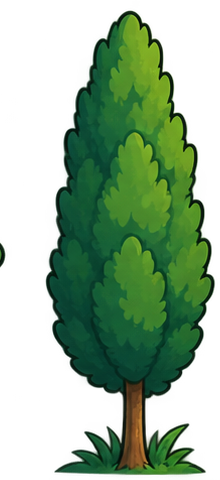
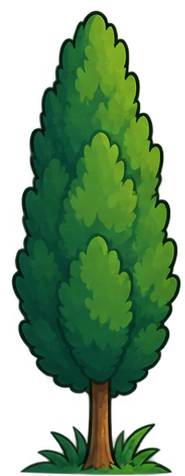
Update project features

diff --git a/src/Container.jsx b/src/Container.jsx
@@ -107,7 +107,8 @@ const Container = () => {
     () => {
       const works = document.querySelector(".works");
 
-      const scrollWorks = works.scrollWidth - works.clientWidth + works.clientWidth /10
+      const scrollWorks =
+        works.scrollWidth - works.clientWidth + works.clientWidth / 10;
 
       const split = SplitText.create(".what .para", {
         type: "chars, words",
@@ -293,8 +294,8 @@ const Container = () => {
           "<+.4",
         )
         .to(".tree-one", { x: "-100" }, "<")
-        .to(".tree-two", { x: "-300" }, "<")
-        .to(".tree-three", { x: "-400" }, "<")
+        .to(".tree-two", { x: "-100", delay: 0.075 }, "<")
+        .to(".tree-three", { x: "-100", delay: 0.15 }, "<")
         .to(".tree", {
           y: "-100",
           delay: 0.2,
@@ -509,14 +510,16 @@ const Container = () => {
           },
           ">",
         )
-        .set(
-          ".what",
-          {
-            display: "none",
-          },
-        )
+        .set(".what", {
+          display: "none",
+        })
 
         // Works
+        .set(".works .desc .title", {
+          y: 100,
+          opacity: 0,
+          scale: 0.9,
+        })
         .set(containerRef.current, {
           backgroundColor: "#56683E",
         })
@@ -535,19 +538,11 @@ const Container = () => {
           },
           "<",
         )
-        .fromTo(
-          ".works .desc .title",
-          {
-            y: 100,
-            opacity: 0,
-            scale: 0.9,
-          },
-          {
-            y: 0,
-            opacity: 1,
-            scale: 1,
-          },
-        )
+        .to(".works .desc .title", {
+          y: 0,
+          opacity: 1,
+          scale: 1,
+        })
         .fromTo(
           splitWork.chars,
           {
@@ -584,11 +579,11 @@ const Container = () => {
           x: -scrollWorks,
           duration: 3,
         })
-
         // Footer
         .set("footer", {
           opacity: 1,
           zIndex: 100,
+          duration: 0,
         })
         .to("footer", {
           top: "-100%",
@@ -690,7 +685,7 @@ const Container = () => {
   );
 
   return (
-    <section ref={heroRef} className="relative z-10 h-dvh w-full">
+    <section ref={heroRef} className="relative z-10 h-lvh w-full">
       <div className="cont flex h-full w-full items-center justify-center overflow-hidden">
         <div
           ref={containerRef}

diff --git a/src/components/Works/Work.jsx b/src/components/Works/Work.jsx
@@ -1,23 +1,33 @@
 import React from "react";
 
-const Work = () => {
+const Work = ({ data }) => {
   return (
-    <div className="work flex flex-col gap-[1vh] w-[55rem] relative group max-sm:w-[40rem]">
+    <a
+    href={data.link}
+      target="_blank"
+      rel="noopener noreferrer"
+      className="work flex flex-col gap-[1vh] w-[55rem] relative group max-sm:w-[40rem]"
+    >
       <div className="title w-full flex justify-between items-center font-[Tanker]">
-        <h5 className="name-project text-[2rem] text-white">Dashboard</h5>
-        <h6 className="tech text-[2rem] text-white/60">React</h6>
+        <h5 className="name-project text-[2rem] text-white">{data.name}</h5>
+        <h6 className="tech text-[2rem] text-white/80">{data.tools}</h6>
       </div>
-      <div className="img transition group-hover:-rotate-2">
-        <img className="w-full rounded-4xl border-2 overflow-hidden" src="/public/images/works/dashboard.jpg" alt="" />
+      <div className="img min-w-full h-[30rem] max-sm:h-[25rem] max-sm:w-[21rem] transition group-hover:-rotate-2">
+        <img
+          className="w-full h-full object-cover rounded-4xl border-2 overflow-hidden"
+          src={data.img}
+          alt={data.name}
+        />
       </div>
       <div className="desc flex flex-col pt-[2vh]">
-        <h6 className="text-[3.7rem] leading-[3rem] font-[melodrama] text-white/90 max-sm:text-[2.4rem] max-md:font-bold max-sm:leading-[2.2rem]">Every shipment, live, in one place</h6>
+        <h6 className="text-[3.7rem] leading-[3rem] font-[melodrama] text-white/90 max-sm:text-[2.4rem] max-md:font-bold max-sm:leading-[2.2rem]">
+          {data.name}
+        </h6>
         <p className="text-[1.7rem] font-[Tanker] text-white/80 mt-[1rem] max-sm:text-[2rem]">
-          Drivers, routes and delays were scattered across tools. One TMS now
-          shows live tracking.
+          {data.descripte}
         </p>
       </div>
-    </div>
+    </a>
   );
 };
 

diff --git a/src/components/Works/Horizontal.jsx b/src/components/Works/Horizontal.jsx
@@ -1,11 +1,42 @@
 import Work from "./Work";
 
+const data = [
+  {
+    name: "Landing Page",
+    tools: "Gsap",
+    img: "./images/works/landing.png",
+    title: "A website that lets the product speak",
+    descripte:
+      "A website featuring smooth scrolling, a beautiful color palette, and elegant, fluid animations",
+    link: "https://bucks-landing.pages.dev/",
+  },
+  {
+    name: "Estate Hub",
+    tools: "Redux Toolkit - Farmer Motion",
+    img: "./images/works/estate.png",
+    title: "An excellent piece of work for a company",
+    descripte:
+      "A website featuring scroll-triggered animation effects, unique mouse-interaction animations, and excellent responsiveness.",
+    link: "https://estatehub-main.pages.dev/",
+  },
+  {
+    name: "Dashboard",
+    tools: "Tanstack Query - Supabase API",
+    img: "./images/works/dashboard.png",
+    title: "Modern and Minimal Dashboard",
+    descripte: "Minimal and unique dashboard",
+    link: "",
+  },
+];
+
 const Horizontal = () => {
   return (
-    <div className="horizontal flex items-center flex-nowrap gap-[4rem] h-full">
-      <Work />
-      <Work />
-      <Work />
+    <div className="horizontal flex items-center flex-nowrap h-full">
+      <div className="flex flex-nowrap items-baseline gap-[12rem]">
+        {data.map((work) => (
+          <Work data={work} />
+        ))}
+      </div>
     </div>
   );
 };

diff --git a/src/sections/Footer.jsx b/src/sections/Footer.jsx
@@ -22,30 +22,15 @@ const Footer = () => {
             <h6 className="text-[#482e88] font-[Melodrama] font-bold text-[2rem] max-md:text-[3rem]">
               Tools
             </h6>
-            <ul className="mt-[1rem] font-[Melodrama] text-[#6148a1] text-[1.6rem] md:text-[2.1rem]">
+            <ul className="mt-[1rem] font-[Melodrama] font-bold text-[#6148a1] text-[1.9rem] md:text-[2.1rem]">
               <li className="flex items-center gap-[1rem]">
                 React
-                <img
-                  className="w-[1.7rem]"
-                  src="/images/icon/dright.png"
-                  alt=""
-                />
               </li>
               <li className="flex items-center gap-[1rem]">
                 Gsap
-                <img
-                  className="w-[1.7rem]"
-                  src="/images/icon/dright.png"
-                  alt=""
-                />
               </li>
               <li className="flex items-center gap-[1rem]">
                 Tailwind
-                <img
-                  className="w-[1.7rem]"
-                  src="/images/icon/dright.png"
-                  alt=""
-                />
               </li>
             </ul>
           </div>

diff --git a/src/components/About/Paragraph.jsx b/src/components/About/Paragraph.jsx
@@ -3,13 +3,13 @@ import React from "react";
 const Paragraph = () => {
   return (
     <div className="relative">
-      <p className="paragraph-two font-[Tanker] text-[2rem] text-[snow]/90 sm:w-[50vw] w-[75vw] text-center sm:mt-[8vh] mt-[2vh]">
+      <p className="paragraph-two font-[Tanker] sm:text-[2rem] text-[2.5rem] text-[snow]/90 sm:w-[50vw] w-[85vw] text-center sm:mt-[8vh] mt-[2vh]">
         I enjoy turning ideas into reality through clean code, thoughtful
         design, and meaningful animations. I'm always exploring new
         technologies, experimenting with creative interactions, and finding
         better ways to bring the web to life
       </p>
-      <p className="paragraph-one absolute top-0 left-0 font-[Tanker] text-[2rem] text-[snow]/90 sm:w-[50vw] w-[75vw] text-center sm:mt-[8vh] mt-[2vh]">
+      <p className="paragraph-one absolute top-0 left-0 font-[Tanker] sm:text-[2rem] text-[2.5rem] text-[snow]/90 sm:w-[50vw] w-[85vw] text-center sm:mt-[8vh] mt-[8vh]">
         I am 19 years old and have been learning front-end development for two
         years. I have a strong interest in learning new tools—such as Three.js
         and GSAP, which I am currently studying.

diff --git a/src/components/Hero/Character.jsx b/src/components/Hero/Character.jsx
@@ -5,7 +5,7 @@ const Character = () => {
     <div className="character absolute bottom-0 left-1/2 -translate-x-1/2">
       <div className="conti relative flex items-center justify-center flex-col">
         <div className="head z-[51] relative">
-          <div className="img origin-bottom-left sm:w-[15vw] w-[31.3vw]">
+          <div className="img origin-bottom-left sm:w-[15vw] w-[40vw]">
             <img
               className="w-full translate-y-1 relative"
               src="/images/character/سر.png"
@@ -36,10 +36,10 @@ const Character = () => {
             </div>
           </div>
         </div>
-        <div className="body z-[48] sm:w-[38vw] w-[80vw]">
+        <div className="body z-[48] sm:w-[38vw] w-[100vw]">
           <img className="w-full" src="/images/character/بدن.png" alt="" />
         </div>
-        <div className="hand z-[49] absolute sm:bottom-[8.1vw] bottom-[17vw] sm:left-[1.5vw] left-[4vw] sm:w-[8vw] w-[14vw]">
+        <div className="hand z-[49] absolute sm:bottom-[8.1vw] bottom-[17vw] sm:left-[1.5vw] left-[4vw] sm:w-[8vw] w-[19vw]">
           <img className="w-full" src="/images/character/دست.png" alt="" />
         </div>
       </div>

diff --git a/src/components/About/Timeline.jsx b/src/components/About/Timeline.jsx
@@ -9,13 +9,13 @@ const Timeline = () => {
       </div>
       <div className="trees z-[2]">
         <div className="tree tree-one origin-bottom-left absolute bottom-[-.1vh] left-[20vw]">
-          <img className="w-[10rem]" src="/public/images/trees/01.png" alt="" />
+          <img className="w-[10rem]" src="/images/trees/01.png" alt="" />
         </div>
-        <div className="tree tree-two origin-bottom-left absolute bottom-[-.1vh] left-[75vw]">
-          <img className="w-[10rem]" src="/images/trees/02.png" alt="" />
+        <div className="tree tree-two origin-bottom-left absolute bottom-[-.1vh] left-[65vw]">
+          <img className="w-[10rem] max-sm:w-[7rem]" src="/images/trees/02.png" alt="" />
         </div>
         <div className="tree tree-three origin-bottom-left absolute bottom-[-.1vh] left-[90vw]">
-          <img className="w-[10rem]" src="/images/trees/03.png" alt="" />
+          <img className="min-w-[10rem]" src="/images/trees/03.png" alt="" />
         </div>
       </div>
     </div>

diff --git a/src/sections/Nav.jsx b/src/sections/Nav.jsx
@@ -20,11 +20,11 @@ const Nav = () => {
         <a
           href="/cv.pdf"
           download="Amirhossein-Abbaszadeh-CV.pdf"
-          className="flex items-center gap-[.5rem] text-[1.7rem] rounded-[5rem] border border-[snow] text-[snow]/90 pl-[1.4rem] pr-[1.4rem] p-[.3rem]"
+          className="flex items-center gap-[.5rem] shadow-lg text-shadow-lg text-[1.7rem] rounded-[5rem] border border-[snow] text-[snow]/90 pl-[1.4rem] pr-[1.4rem] p-[.3rem]"
         >
           Download CV
         </a>
-        <div className="flex items-center gap-[.5rem] rounded-[5rem] border border-[snow] text-[snow]/90 pl-[1.4rem] pr-[1.4rem] p-[.3rem]">
+        <div className="flex items-center gap-[.5rem] shadow-lg text-shadow-lg rounded-[5rem] border border-[snow] text-[snow]/90 pl-[1.4rem] pr-[1.4rem] p-[.3rem]">
           <span className="w-[.7rem] aspect-square rounded-full bg-green-400"></span>
           <p className="text-[1.7rem]">Open to roles and freelance</p>
         </div>

diff --git a/src/components/About/Title.jsx b/src/components/About/Title.jsx
@@ -2,7 +2,7 @@ import React from "react";
 
 const Title = () => {
   return (
-    <h4 className="title font-[comico] text-[snow]/80 text-center sm:leading-[10vw] sm:text-[11vw] leading-[6rem] text-[6rem] flex flex-col max-md:mt-[6vh] max-sm:mt-[12vh]">
+    <h4 className="title font-[comico] text-[snow]/80 text-center sm:leading-[10vw] sm:text-[11vw] leading-[8rem] text-[8rem] flex flex-col max-md:mt-[6vh] max-sm:mt-[12vh]">
       <span> BASed IN</span>
       <span>MASHHAD.</span>
     </h4>

diff --git a/src/App.jsx b/src/App.jsx
@@ -42,7 +42,7 @@ function App() {
   });
 
   return (
-    <main className="relative min-h-dvh w-dvw bg-black">
+    <main className="relative bg-black">
       <Nav />
       <Container />
       <CircleProgress />
